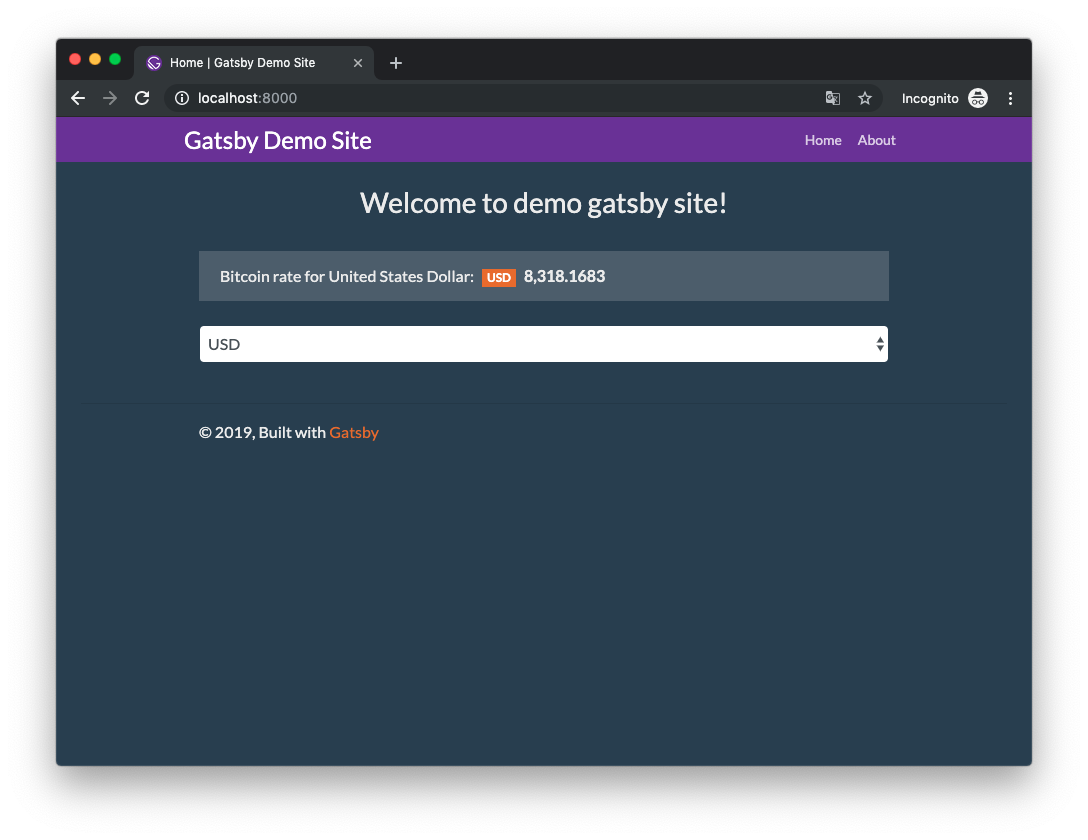
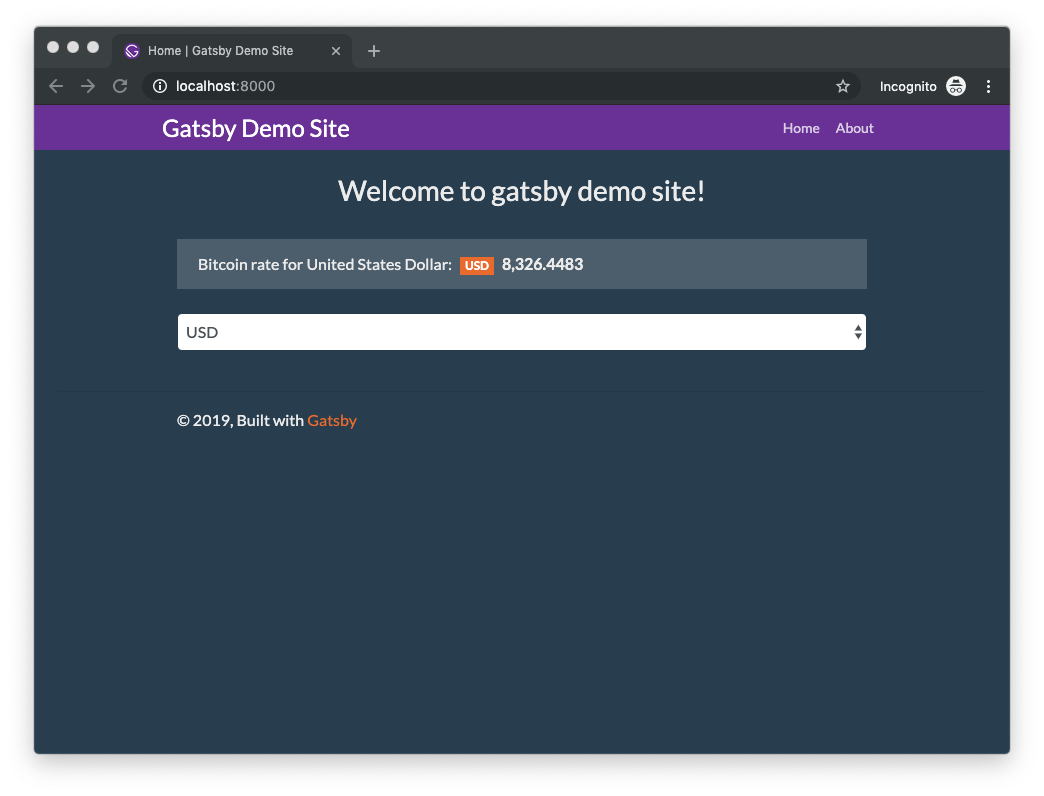
small changes

Changed region(s): [[0.0307, 0.0302, 0.9808, 0.9648], [0.1533, 0.3015, 0.8276, 0.4523], [0.1533, 0.4824, 0.3678, 0.5427]]

diff --git a/src/pages/index.js b/src/pages/index.js
@@ -9,8 +9,7 @@ const IndexPage = props => (
     <SEO title="Home" />
     <div className="container">
       <h3 className="row justify-content-center">
-        {' '}
-        Welcome to demo gatsby site!{' '}
+        Welcome to gatsby demo site!
       </h3>
       <br />
       <Prices></Prices>
